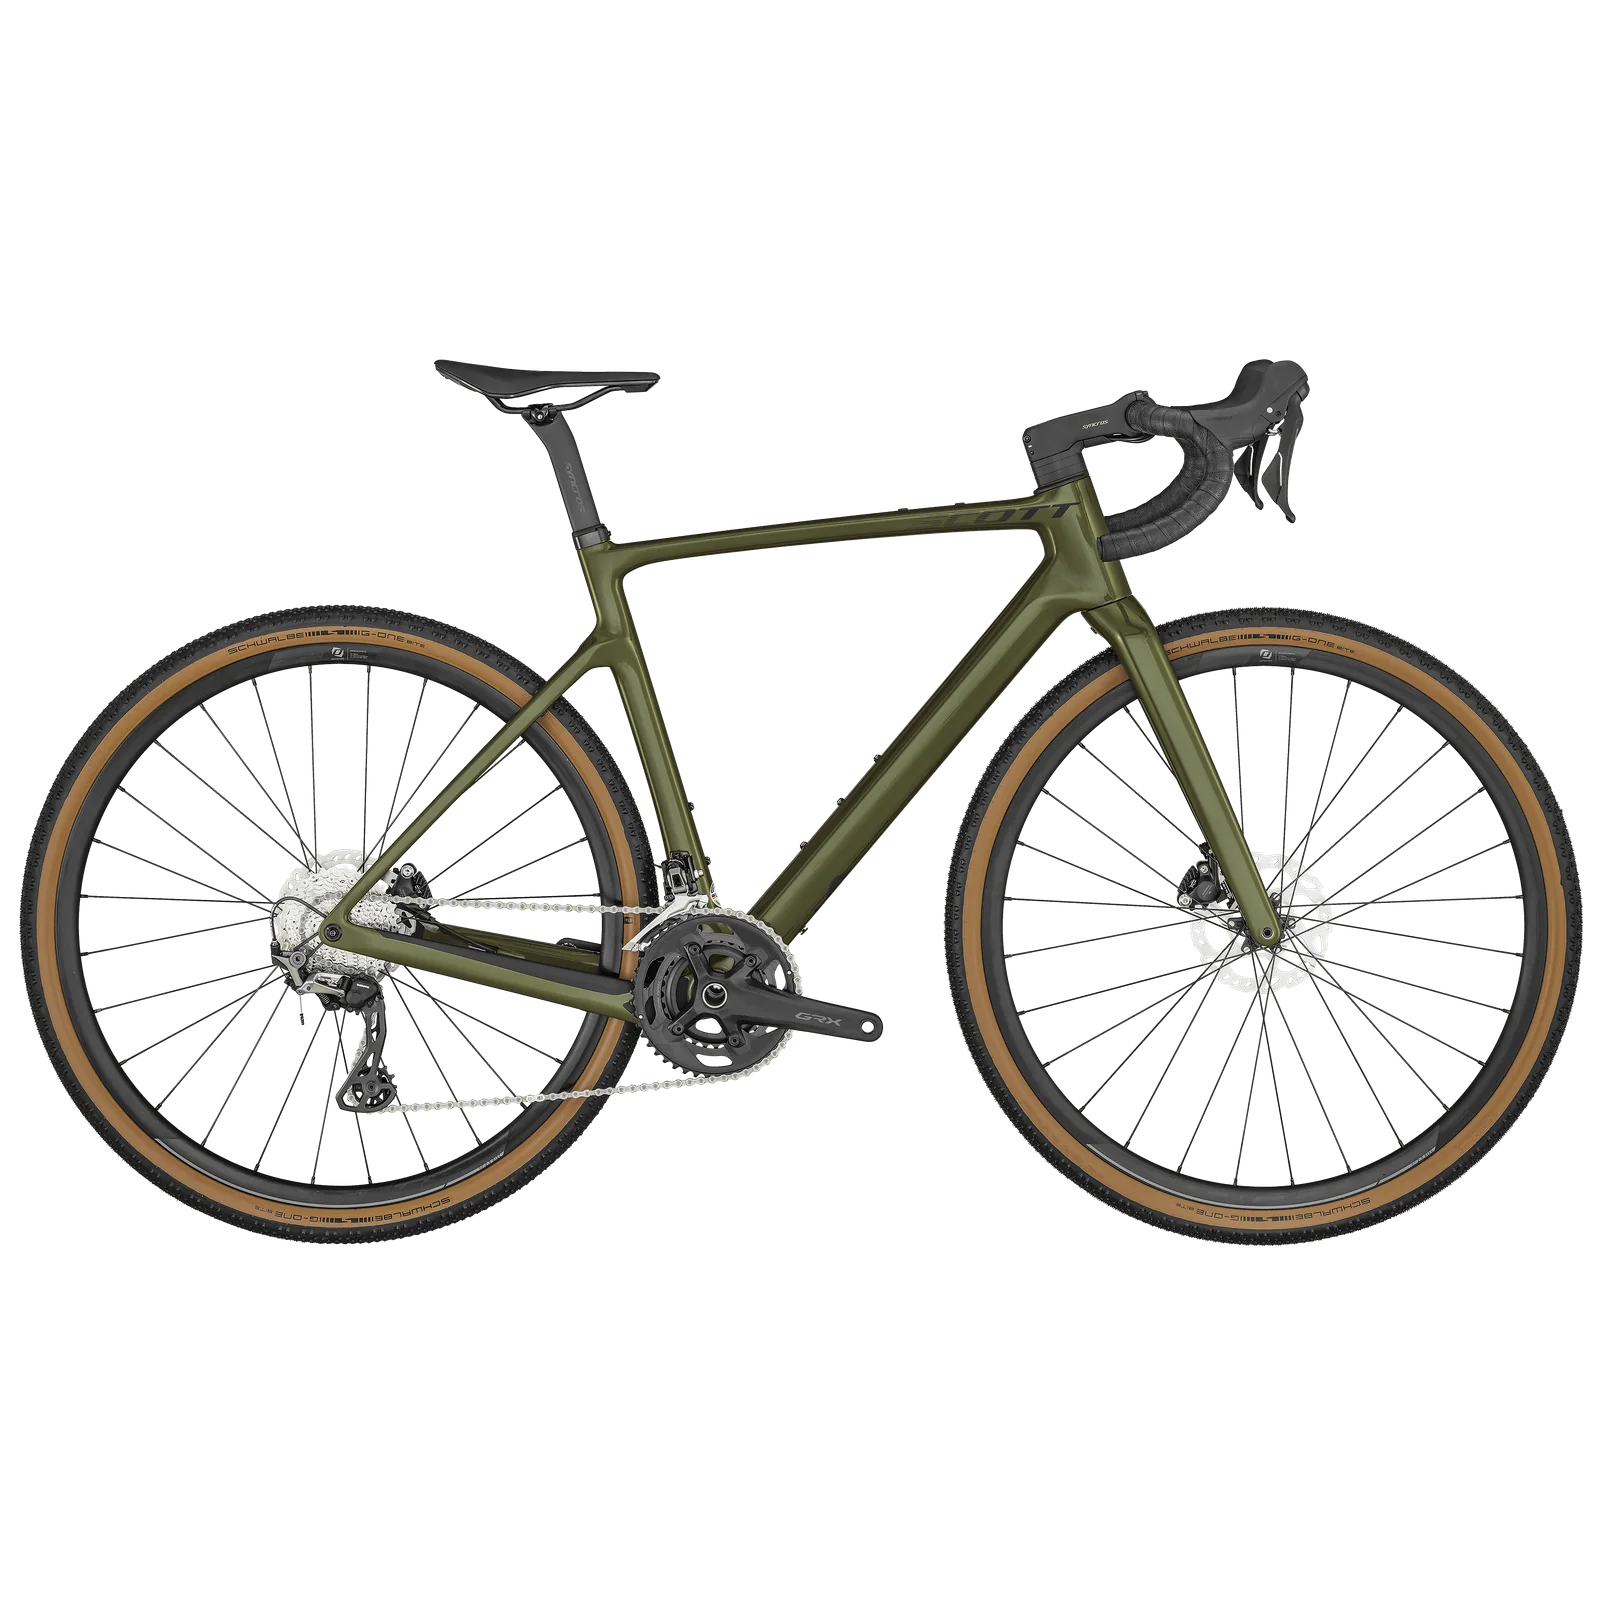
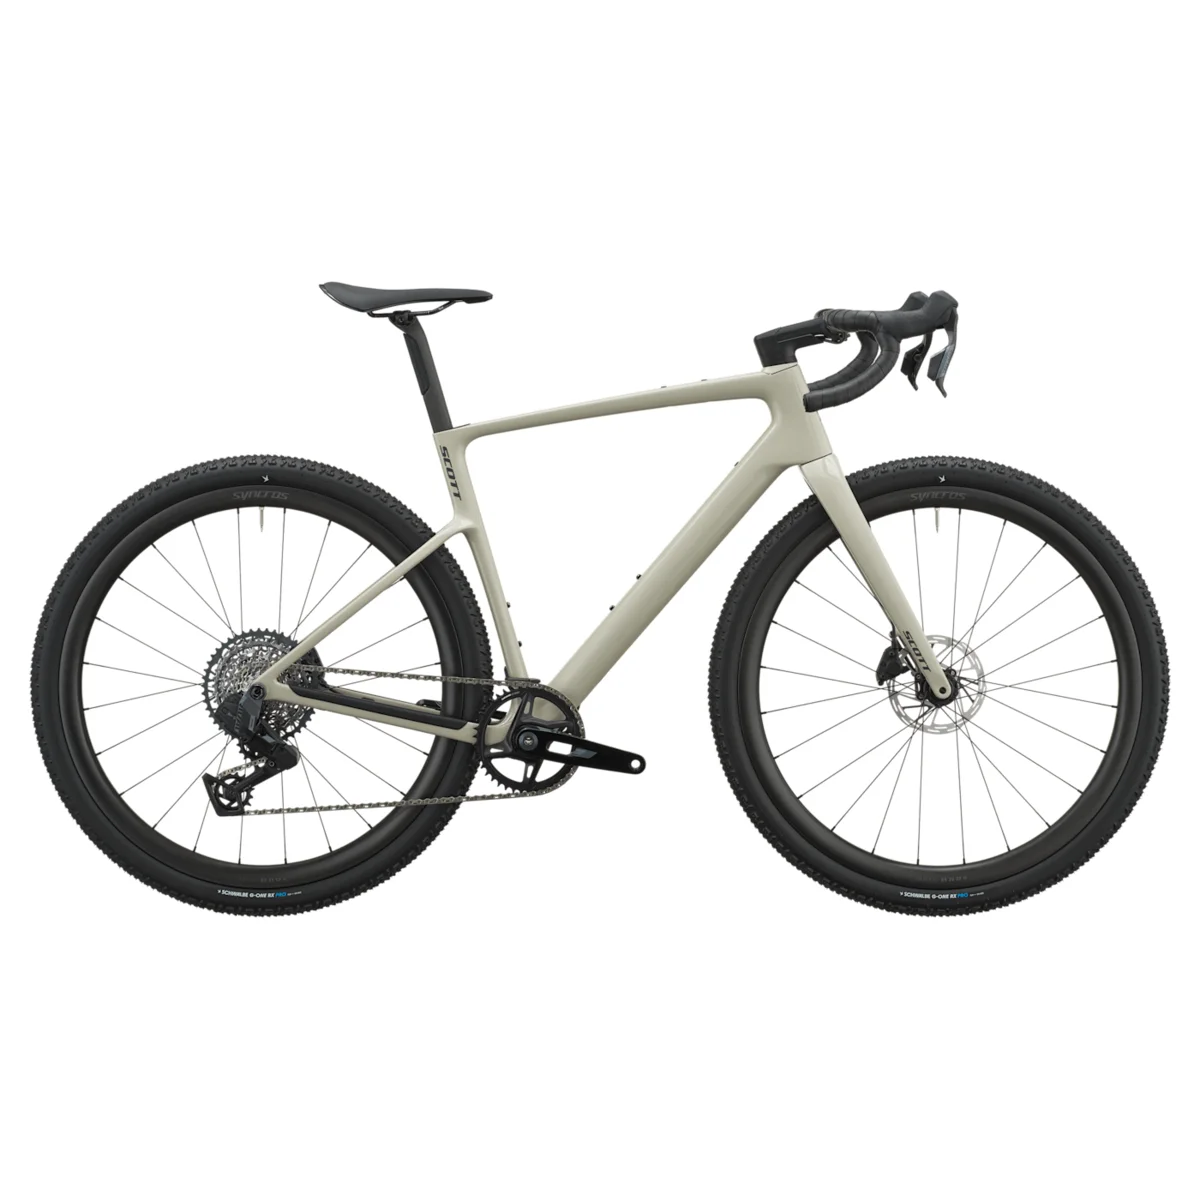
Scott Addict Gravel 2027: official specs, photos, colors & prices
Fix all 5 Addict Gravel models to real 2027 data from scott-sports.com CZ
product pages (the 2027 lineup lives on ?article=42761x URLs; the generic
-bike slugs were still 2026, hence wrong photos/specs):

- Official 2027 hero photos (Cloudinary 2288-series) for Premium/10/20/30/40
- Weights: Premium 8.4, 10 8.7, 20 8.9, 30 9.0, 40 9.7 kg
- Groupsets: Premium RED XPLR AXS 1x13, 10+20 Force XPLR AXS 1x13,
  30 Rival XPLR AXS 1x13, 40 Shimano GRX 1x12
- Colors, wheels, cockpit, sizes (all 7: XXS-XXL) per official spec
- Prices = ER 2027 (per request, not -2%)
- scottUrl -> CZ product pages; fix article prose specs

Changed region(s): [[0.0, 0.2158, 1.0, 0.8017]]

diff --git a/src/data/scott-2027.ts b/src/data/scott-2027.ts
@@ -95,7 +95,7 @@ export function statusLabel(s: LaunchStatus): string {
 
 const MTB_SIZES = ["S", "M", "L", "XL"];
 const ROAD_SIZES = ["XXS", "XS", "S", "M", "L", "XL", "XXL"];
-const GRAVEL_SIZES = ["XS / 49", "S / 52", "M / 54", "L / 56", "XL / 58"];
+const GRAVEL_SIZES_7 = ["XXS / 47", "XS / 49", "S / 52", "M / 54", "L / 56", "XL / 58", "XXL / 61"];
 
 function gal(slug: string, count: number): string[] {
   return Array.from({ length: count }, (_, i) =>
@@ -728,116 +728,116 @@ export const SCOTT_2027: Scott2027Platform[] = [
       {
         name: "Addict Gravel Premium",
         slug: "addict-gravel-premium",
-        groupset: "SRAM RED XPLR AXS 13sp",
+        groupset: "SRAM RED XPLR AXS 1×13",
         wheels: "Fulcrum Sharq GR Cult Carbon",
-        weightKg: 7.8,
+        weightKg: 8.4,
         priceEur: null,
-        priceCzk: 229310,
+        priceCzk: 233990,
         colors: ["Watery Green"],
         photo: "/media/scott-2027/addict-gravel-rc.webp",
-        sizes: GRAVEL_SIZES,
+        sizes: GRAVEL_SIZES_7,
         gallery: [],
-        scottUrl: "https://www.scott-sports.com/global/en/product/scott-addict-gravel-premium-bike",
+        scottUrl: "https://www.scott-sports.com/cz/cs/product/scott-addict-gravel-premium-bike?article=4276128602002",
         componentry: {
-          frame: "Addict Gravel HMX Carbon (794 g), prostup pneu 57 mm, UDH, úložiště Save the Day",
-          fork: "Addict Gravel HMX, integrované úložiště nářadí",
-          drivetrain: "SRAM RED XPLR AXS 13sp, 42T, 10-46",
-          brakes: "SRAM RED HRD, 160/160 mm",
-          wheels: "Fulcrum Sharq GR Cult Carbon",
-          tires: "Schwalbe G-One RX Pro Evo 700×50C",
-          cockpit: "Syncros integrovaný kokpit, D-profil karbonová sedlovka",
+          frame: "Addict Gravel HMX Carbon, Ride geometrie, vyměnitelný UDH hanger, vnitřní vedení kabeláže, integrované úložiště",
+          fork: "Addict Gravel HMX Flatmount Disc, 27,2 mm eccentric carbon steerer",
+          drivetrain: "SRAM RED XPLR AXS 1×13 elektronické, kliky 42T s wattmetrem, kazeta XG1391 10–46T",
+          brakes: "SRAM RED AXS HRD, 160/160 mm",
+          wheels: "Fulcrum Sharq GR Cult Carbon (24/24)",
+          tires: "Schwalbe G-One RX Pro Evolution 700×50C",
+          cockpit: "Syncros IC-R501-CF2 integrovaný karbonový kokpit (řídítka + představec v jednom), sedlovka SP-R101-CF, sedlo Kildala",
         },
       },
       {
         name: "Addict Gravel 10",
         slug: "addict-gravel-10",
-        groupset: "SRAM Force XPLR AXS 13sp",
-        wheels: "Fulcrum Soniq Carbon GR",
-        weightKg: 8.2,
+        groupset: "SRAM Force XPLR AXS 1×13",
+        wheels: "Fulcrum Soniq GR Carbon",
+        weightKg: 8.7,
         priceEur: null,
-        priceCzk: 165610,
-        colors: ["Blaze Purple"],
+        priceCzk: 168990,
+        colors: ["Blaze Purple", "Lupine Grey"],
         photo: "/media/scott-2027/addict-gravel-10.webp",
-        sizes: GRAVEL_SIZES,
-        gallery: gal("addict-gravel-10", 5),
-        scottUrl: "https://www.scott-sports.com/global/en/product/scott-addict-gravel-10-bike",
+        sizes: GRAVEL_SIZES_7,
+        gallery: [],
+        scottUrl: "https://www.scott-sports.com/cz/cs/product/scott-addict-gravel-10-bike-427613?article=4276138517002",
         componentry: {
-          frame: "Addict Gravel Disc HMF Carbon, gravel geometrie",
-          fork: "Addict Gravel HMF Flatmount Disc, 1 1/4\"-1 1/2\" eccentric carbon steerer",
-          drivetrain: "SRAM FORCE eTap AXS 24sp electronic, FORCE HRD shifters, FORCE kliky 46/33, FORCE XG1270 10-36",
-          brakes: "SRAM FORCE eTap AXS HRD, CenterLine XR 160/160",
-          wheels: "DT Swiss GRC1400 Disc 24F/24R",
-          tires: "Schwalbe G-One Bite Performance 700×45C (F/R)",
-          cockpit: "Syncros Creston 1.0 X Carbon 31,8 mm řidítka; RR2.0 stem; Duncan 1.0 Aero sedlovka; Tofino Regular 1.0 Cutout sedlo",
+          frame: "Addict Gravel HMX Carbon, Ride geometrie, vyměnitelný UDH hanger, vnitřní vedení kabeláže, integrované úložiště",
+          fork: "Addict Gravel HMX Flatmount Disc, 27,2 mm eccentric carbon steerer",
+          drivetrain: "SRAM FORCE XPLR AXS 1×13 elektronické, kliky 42T s wattmetrem, kazeta XG1371 10–46T",
+          brakes: "SRAM FORCE AXS HRD, 160/160 mm",
+          wheels: "Fulcrum Soniq GR Carbon (24/24)",
+          tires: "Schwalbe G-One RX Pro Evolution 700×50C",
+          cockpit: "Syncros IC-R501-CF2 integrovaný karbonový kokpit (řídítka + představec v jednom), sedlovka SP-R101-CF, sedlo Kildala",
         },
       },
       {
         name: "Addict Gravel 20",
         slug: "addict-gravel-20",
-        groupset: "SRAM Force XPLR AXS 13sp",
-        wheels: "Fulcrum Soniq Carbon GR",
-        weightKg: 8.6,
+        groupset: "SRAM Force XPLR AXS 1×13",
+        wheels: "Fulcrum Soniq GR Carbon",
+        weightKg: 8.9,
         priceEur: null,
-        priceCzk: 140130,
-        colors: ["Watery Black"],
+        priceCzk: 142990,
+        colors: ["Mojito Green", "Watery Black"],
         photo: "/media/scott-2027/addict-gravel-20.webp",
-        sizes: GRAVEL_SIZES,
-        gallery: gal("addict-gravel-20", 4),
-        scottUrl: "https://www.scott-sports.com/global/en/product/scott-addict-gravel-20-bike",
+        sizes: GRAVEL_SIZES_7,
+        gallery: [],
+        scottUrl: "https://www.scott-sports.com/cz/cs/product/scott-addict-gravel-20-bike-427614?article=4276148554002",
         componentry: {
-          frame: "Addict Gravel Disc HMF Carbon, gravel geometrie",
-          fork: "Addict Gravel HMF Flatmount Disc, 1 1/4\"-1 1/2\" eccentric carbon steerer",
-          drivetrain: "SRAM RIVAL XPLR eTap AXS 12sp electronic, RIVAL HRD shifters, RIVAL 1 WIDE kliky 42T, XPLR XG1251 10-44 (1× setup)",
-          brakes: "SRAM RIVAL eTap AXS HRD, Paceline 160/160",
-          wheels: "Syncros RP2.0 Disc",
-          tires: "Schwalbe G-One Bite Performance 700×45C (F/R)",
-          cockpit: "Syncros Creston 2.0 X Alloy 31,8 mm řidítka; RR2.0 stem; Duncan 1.0 Aero sedlovka; Tofino Regular 2.0 Cutout",
+          frame: "Addict Gravel HMF Carbon, Ride geometrie, vyměnitelný UDH hanger, vnitřní vedení kabeláže, integrované úložiště",
+          fork: "Addict Gravel HMF Flatmount Disc, 27,2 mm eccentric carbon steerer",
+          drivetrain: "SRAM FORCE XPLR AXS 1×13 elektronické, kliky 42T s wattmetrem, kazeta XG1371 10–46T",
+          brakes: "SRAM FORCE AXS HRD, 160/160 mm",
+          wheels: "Fulcrum Soniq GR Carbon (24/24)",
+          tires: "Schwalbe G-One RX Pro Evolution 700×50C",
+          cockpit: "Syncros HB-R502-AL2 řídítka 31,8 mm, představec ST-R310-AL, sedlovka SP-R101-CF, sedlo Kildala",
         },
       },
       {
         name: "Addict Gravel 30",
         slug: "addict-gravel-30",
-        groupset: "SRAM Rival XPLR AXS 13sp",
-        wheels: "Syncros Capital GR",
-        weightKg: 8.7,
+        groupset: "SRAM Rival XPLR AXS 1×13",
+        wheels: "Syncros Capital GR 35 CF II",
+        weightKg: 9.0,
         priceEur: null,
-        priceCzk: 101910,
-        colors: ["Mulberry Purple", "Iron Grey"],
+        priceCzk: 103990,
+        colors: ["Agate Grey", "Mulberry Purple"],
         photo: "/media/scott-2027/addict-gravel-30.webp",
-        sizes: GRAVEL_SIZES,
-        gallery: gal("addict-gravel-30", 3),
-        scottUrl: "https://www.scott-sports.com/global/en/product/scott-addict-gravel-30-bike",
+        sizes: GRAVEL_SIZES_7,
+        gallery: [],
+        scottUrl: "https://www.scott-sports.com/cz/cs/product/scott-addict-gravel-30-bike-427615?article=4276158510002",
         componentry: {
-          frame: "Addict Gravel Disc HMF Carbon, gravel geometrie",
-          fork: "Addict Gravel HMF Flatmount Disc, eccentric carbon steerer",
-          drivetrain: "Shimano GRX RX810/600 mix 22sp (2× setup)",
-          brakes: "Shimano GRX hydraulické",
-          wheels: "Syncros RP2.0 Disc",
-          tires: "Schwalbe G-One 700×45C",
-          cockpit: "Syncros Creston Alloy řidítka; standardní gravel setup",
+          frame: "Addict Gravel HMF Carbon, Ride geometrie, vyměnitelný UDH hanger, vnitřní vedení kabeláže, integrované úložiště",
+          fork: "Addict Gravel HMF Flatmount Disc, 27,2 mm eccentric carbon steerer",
+          drivetrain: "SRAM RIVAL XPLR AXS 1×13 elektronické, kliky 42T, kazeta XG1351 10–46T",
+          brakes: "SRAM RIVAL AXS HRD, 160/160 mm",
+          wheels: "Syncros Capital GR 35 CF II karbon (24/24)",
+          tires: "Schwalbe G-One RX Pro Evolution 700×50C",
+          cockpit: "Syncros HB-R502-AL2 řídítka 31,8 mm, představec ST-R310-AL, sedlovka SP-R101-CF, sedlo Kildala",
         },
       },
       {
         name: "Addict Gravel 40",
         slug: "addict-gravel-40",
-        groupset: "Shimano GRX 12sp",
-        wheels: "Syncros Capital GR alloy",
-        weightKg: 8.7,
+        groupset: "Shimano GRX 1×12",
+        wheels: "Syncros Capital GR 25 AL",
+        weightKg: 9.7,
         priceEur: null,
-        priceCzk: 68590,
-        colors: ["Mulberry Purple", "Iron Grey"],
-        photo: "/media/scott-2027/addict-gravel-30.webp",
-        sizes: GRAVEL_SIZES,
+        priceCzk: 69990,
+        colors: ["Carbon Black", "Iron Grey", "Peach Pink"],
+        photo: "/media/scott-2027/addict-gravel-40.webp",
+        sizes: GRAVEL_SIZES_7,
         gallery: [],
-        scottUrl: "https://www.scott-sports.com/global/en/product/scott-addict-gravel-40-bike",
+        scottUrl: "https://www.scott-sports.com/cz/cs/product/scott-addict-gravel-40-bike?article=4276163020002",
         componentry: {
-          frame: "Addict Gravel HMF Carbon (990 g), prostup pneu 57 mm, UDH",
-          fork: "Addict Gravel HMF, integrované úložiště Save the Day",
-          drivetrain: "Shimano GRX 12sp, 40T, 11-45",
-          brakes: "Shimano GRX hydraulické, 160/160 mm",
-          wheels: "Syncros Capital GR alloy",
-          tires: "Schwalbe G-One RX Pro 700×50C",
-          cockpit: "Syncros gravel setup, D-profil sedlovka",
+          frame: "Addict Gravel HMF Carbon, Ride geometrie, vyměnitelný UDH hanger, vnitřní vedení kabeláže, integrované úložiště",
+          fork: "Addict Gravel HMF Flatmount Disc, 27,2 mm eccentric carbon steerer",
+          drivetrain: "Shimano GRX 1×12, měnič RD-RX822 GS, kliky FC-RX610-1 40T, kazeta SLX CS-M7100 11–45T",
+          brakes: "Shimano BR-RX410 hydraulické, 160/160 mm",
+          wheels: "Syncros Capital GR 25 AL alu (24/24)",
+          tires: "Schwalbe G-One RX Pro Evolution 700×50C",
+          cockpit: "Syncros HB-R502-AL2 řídítka 31,8 mm, představec ST-R310-AL, sedlovka SP-R101-CF, sedlo Kildala",
         },
       },
     ],

diff --git a/src/components/articles/ScottAddictGravel2027.tsx b/src/components/articles/ScottAddictGravel2027.tsx
@@ -70,7 +70,7 @@ export default function ScottAddictGravel2027() {
           <ul className="space-y-2 text-sm text-[#1a1a2e]">
             <li><strong>Co to je:</strong> kompletní redesign gravel platformy Scott Addict Gravel, modelový rok 2027.</li>
             <li><strong>Prostup pneu:</strong> 57 mm — pojme i 2,2&quot; MTB plášť (32&quot; verze zatím není).</li>
-            <li><strong>Hmotnost rámu (M):</strong> HMX 794 g (−75 g), HMF 990 g. Kompletní kolo od 7,8 kg.</li>
+            <li><strong>Hmotnost rámu (M):</strong> HMX 794 g (−75 g), HMF 990 g. Kompletní kolo od 8,4 kg (Premium).</li>
             <li><strong>Řada:</strong> Premium → Addict 10 / 20 / 30 / 40 (SRAM RED/Force/Rival XPLR AXS nebo Shimano GRX).</li>
             <li><strong>Kde objednat:</strong>{" "}
               <a href="#predobjednavka" className="font-bold text-[#E8431A] underline hover:no-underline">přes formulář níže</a>{" "}
@@ -195,8 +195,9 @@ export default function ScottAddictGravel2027() {
 
         <h2 id="modely" className="text-2xl md:text-3xl font-black text-[#1a1a2e] mt-12 mb-4 scroll-mt-24">Modely a specifikace Addict Gravel 2027</h2>
         <p className="text-base text-[#5A6480] leading-relaxed mb-2">
-          Řada jede od vlajkové <strong>Premium</strong> (SRAM RED XPLR AXS, HMX, 7,8 kg) přes{" "}
-          <strong>Addict 10 / 20 / 30</strong> (SRAM Force XPLR) až po <strong>Addict 40</strong> se Shimano GRX.
+          Řada jede od vlajkové <strong>Premium</strong> (SRAM RED XPLR AXS, rám HMX, 8,4 kg) přes{" "}
+          <strong>Addict 10 a 20</strong> (SRAM Force XPLR AXS) a <strong>30</strong> (SRAM Rival XPLR AXS) až po{" "}
+          <strong>Addict 40</strong> se Shimano GRX 1×12.
           Vybrané modely níže — rozklikni pro{" "}
           <strong className="text-[#1a1a2e]">kompletní specifikaci, fotky, barvy a orientační cenu</strong>:
         </p>
@@ -204,10 +205,9 @@ export default function ScottAddictGravel2027() {
         <GravelModelGrid />
 
         <div className="bg-[#FFF8E7] border border-[#F5D78E] rounded-xl p-4 text-sm text-[#5A4500] leading-relaxed mb-8">
-          <strong>Pozor — náhledové fotky modelů jsou zatím z generace 2026</strong> (ilustrační). Nový{" "}
-          <strong>Addict Gravel 2027</strong> je aktuálně <strong>jen v předobjednávce</strong> — oficiální fotky
-          2027, finální osazení jednotlivých modelů, ceny v ČR a skladovou dostupnost (model / velikost) doplníme,
-          jakmile je potvrdíme u distributora.
+          <strong>Fotky, barvy i osazení níže jsou oficiální generace 2027</strong> (zdroj scott-sports.com). Nový{" "}
+          <strong>Addict Gravel 2027</strong> je aktuálně <strong>v předobjednávce</strong> — ceny jsou orientační
+          a skladovou dostupnost jednotlivých modelů a velikostí potvrdíme individuálně po poptávce.
         </div>
 
         <p className="text-sm text-[#5A6480] leading-relaxed mb-8">
